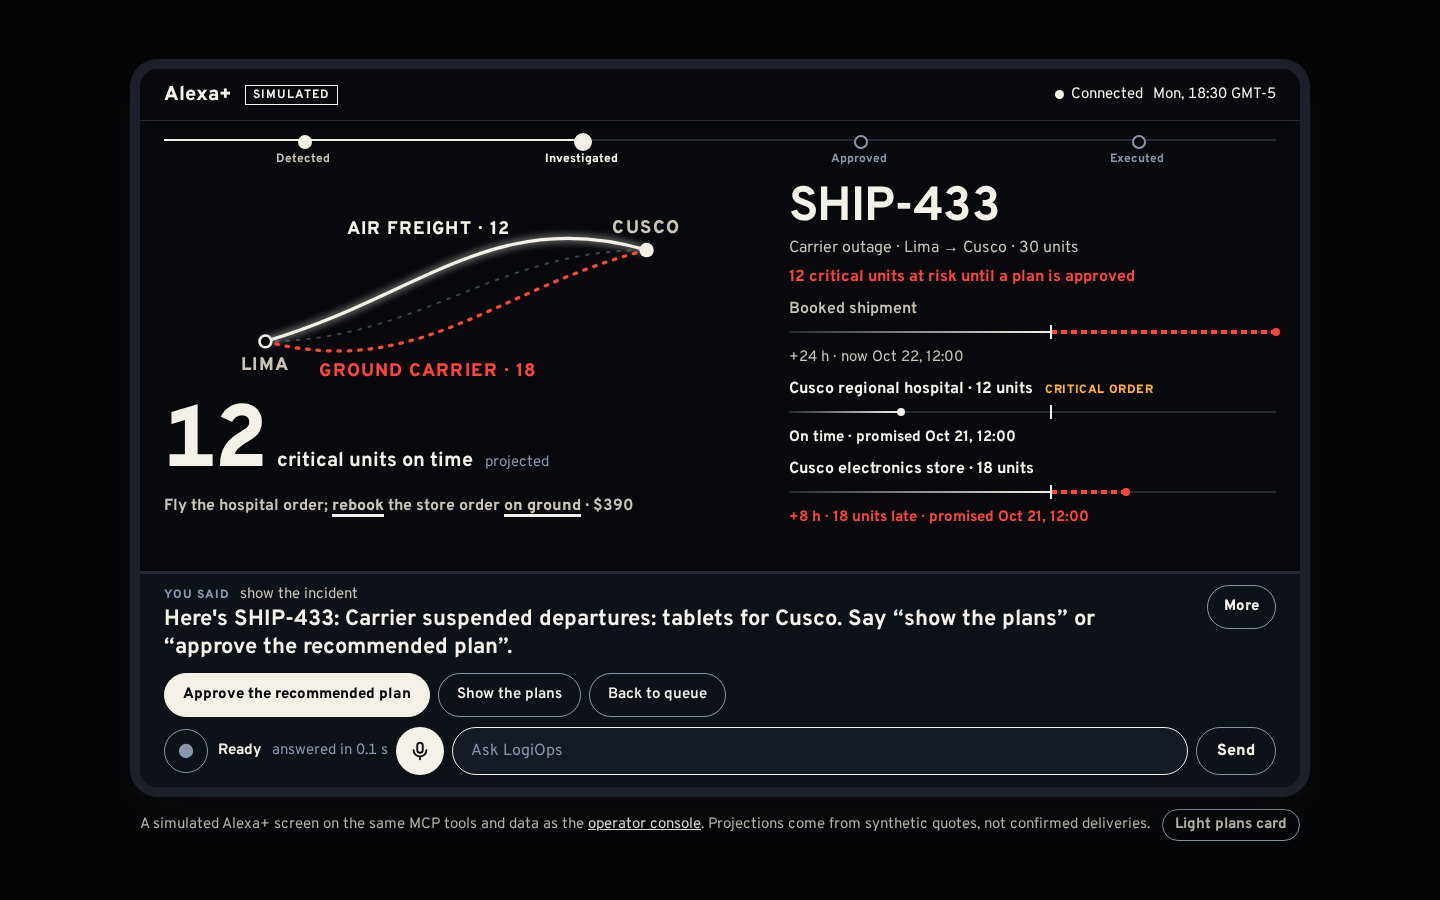
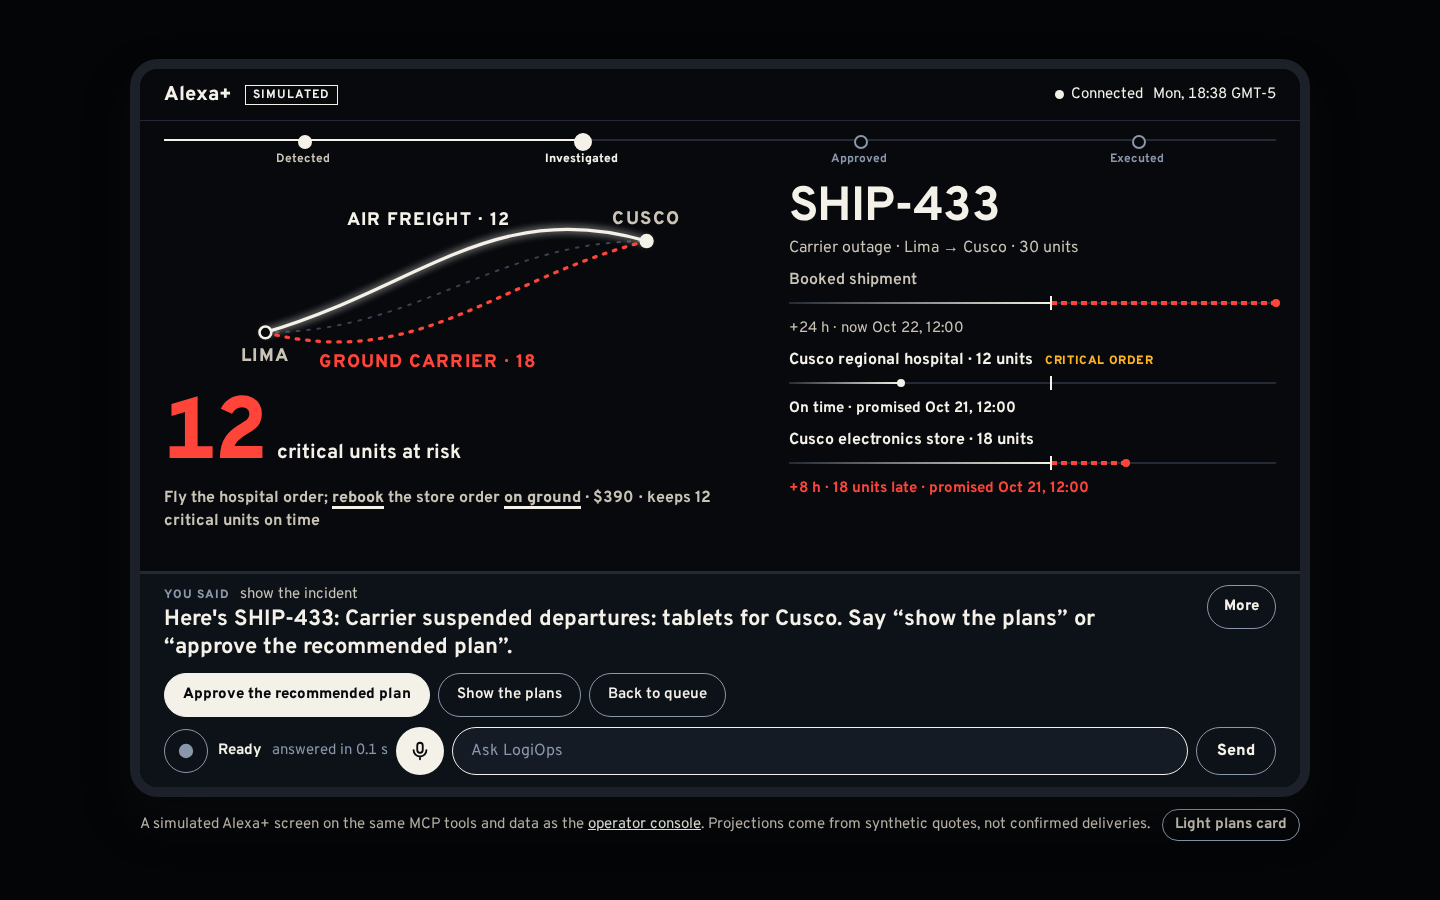
docs: screenshots show the incident at risk until approval

diff --git a/README.md b/README.md
@@ -14,11 +14,11 @@ against the incident's data before it is shown.
 
 | The agent at work: each MCP tool call lit as it returns | The plans: the MCP App card with its decision field | The shipment's journey with the chosen plan |
 |---|---|---|
-| ![The agent stage: "Asking the agent about SHIP-433", five tool-call stations on a lit rail and the data check, captioned as a replay of a recorded run](docs/img/device-agent.png) | ![The plans card: every plan placed by delay and cost, the pick lit with a ring, the plan that leaves the hospital late as a hollow red ring](docs/img/device-plans.png) | ![The incident: the route from Lima to Cusco with the air leg as a white trail and the late ground leg dashed red, 12 critical units on time, and each order on one time scale](docs/img/device-journey.png) |
+| ![The agent stage: "Asking the agent about SHIP-433", five tool-call stations on a lit rail and the data check, captioned as a replay of a recorded run](docs/img/device-agent.png) | ![The plans card: every plan placed by delay and cost, the pick lit with a ring, the plan that leaves the hospital late as a hollow red ring](docs/img/device-plans.png) | ![The incident with the agent's pick: the route from Lima to Cusco with the air leg as a white trail and the late ground leg dashed red, 12 critical units still at risk until approval, the pick keeping them on time, and each order on one time scale](docs/img/device-journey.png) |
 
 | Approve with one yes | The result, verified | The device on a phone |
 |---|---|---|
-| ![Confirmation: $390 in large type, each order's trail to its promise, Yes and No](docs/img/device-confirm.png) | ![Result: the executed route and 12 critical units on time, with the decision times](docs/img/device-result.png) | ![The device on a phone: SHIP-433 with its booked shipment delay of +24 h](docs/img/device-phone.png) |
+| ![Confirmation: $390 in large type, each order's trail to its promise, Yes and No](docs/img/device-confirm.png) | ![Result: the executed route and 12 critical units on time, with the decision times](docs/img/device-result.png) | ![The device on a phone: SHIP-433 with 12 critical units at risk and the booked route dashed red](docs/img/device-phone.png) |
 
 ![The operator console: the same incidents in full, with the session's measured outcomes, the decision field beside the plans and the audit trail](docs/img/console.png)
 
